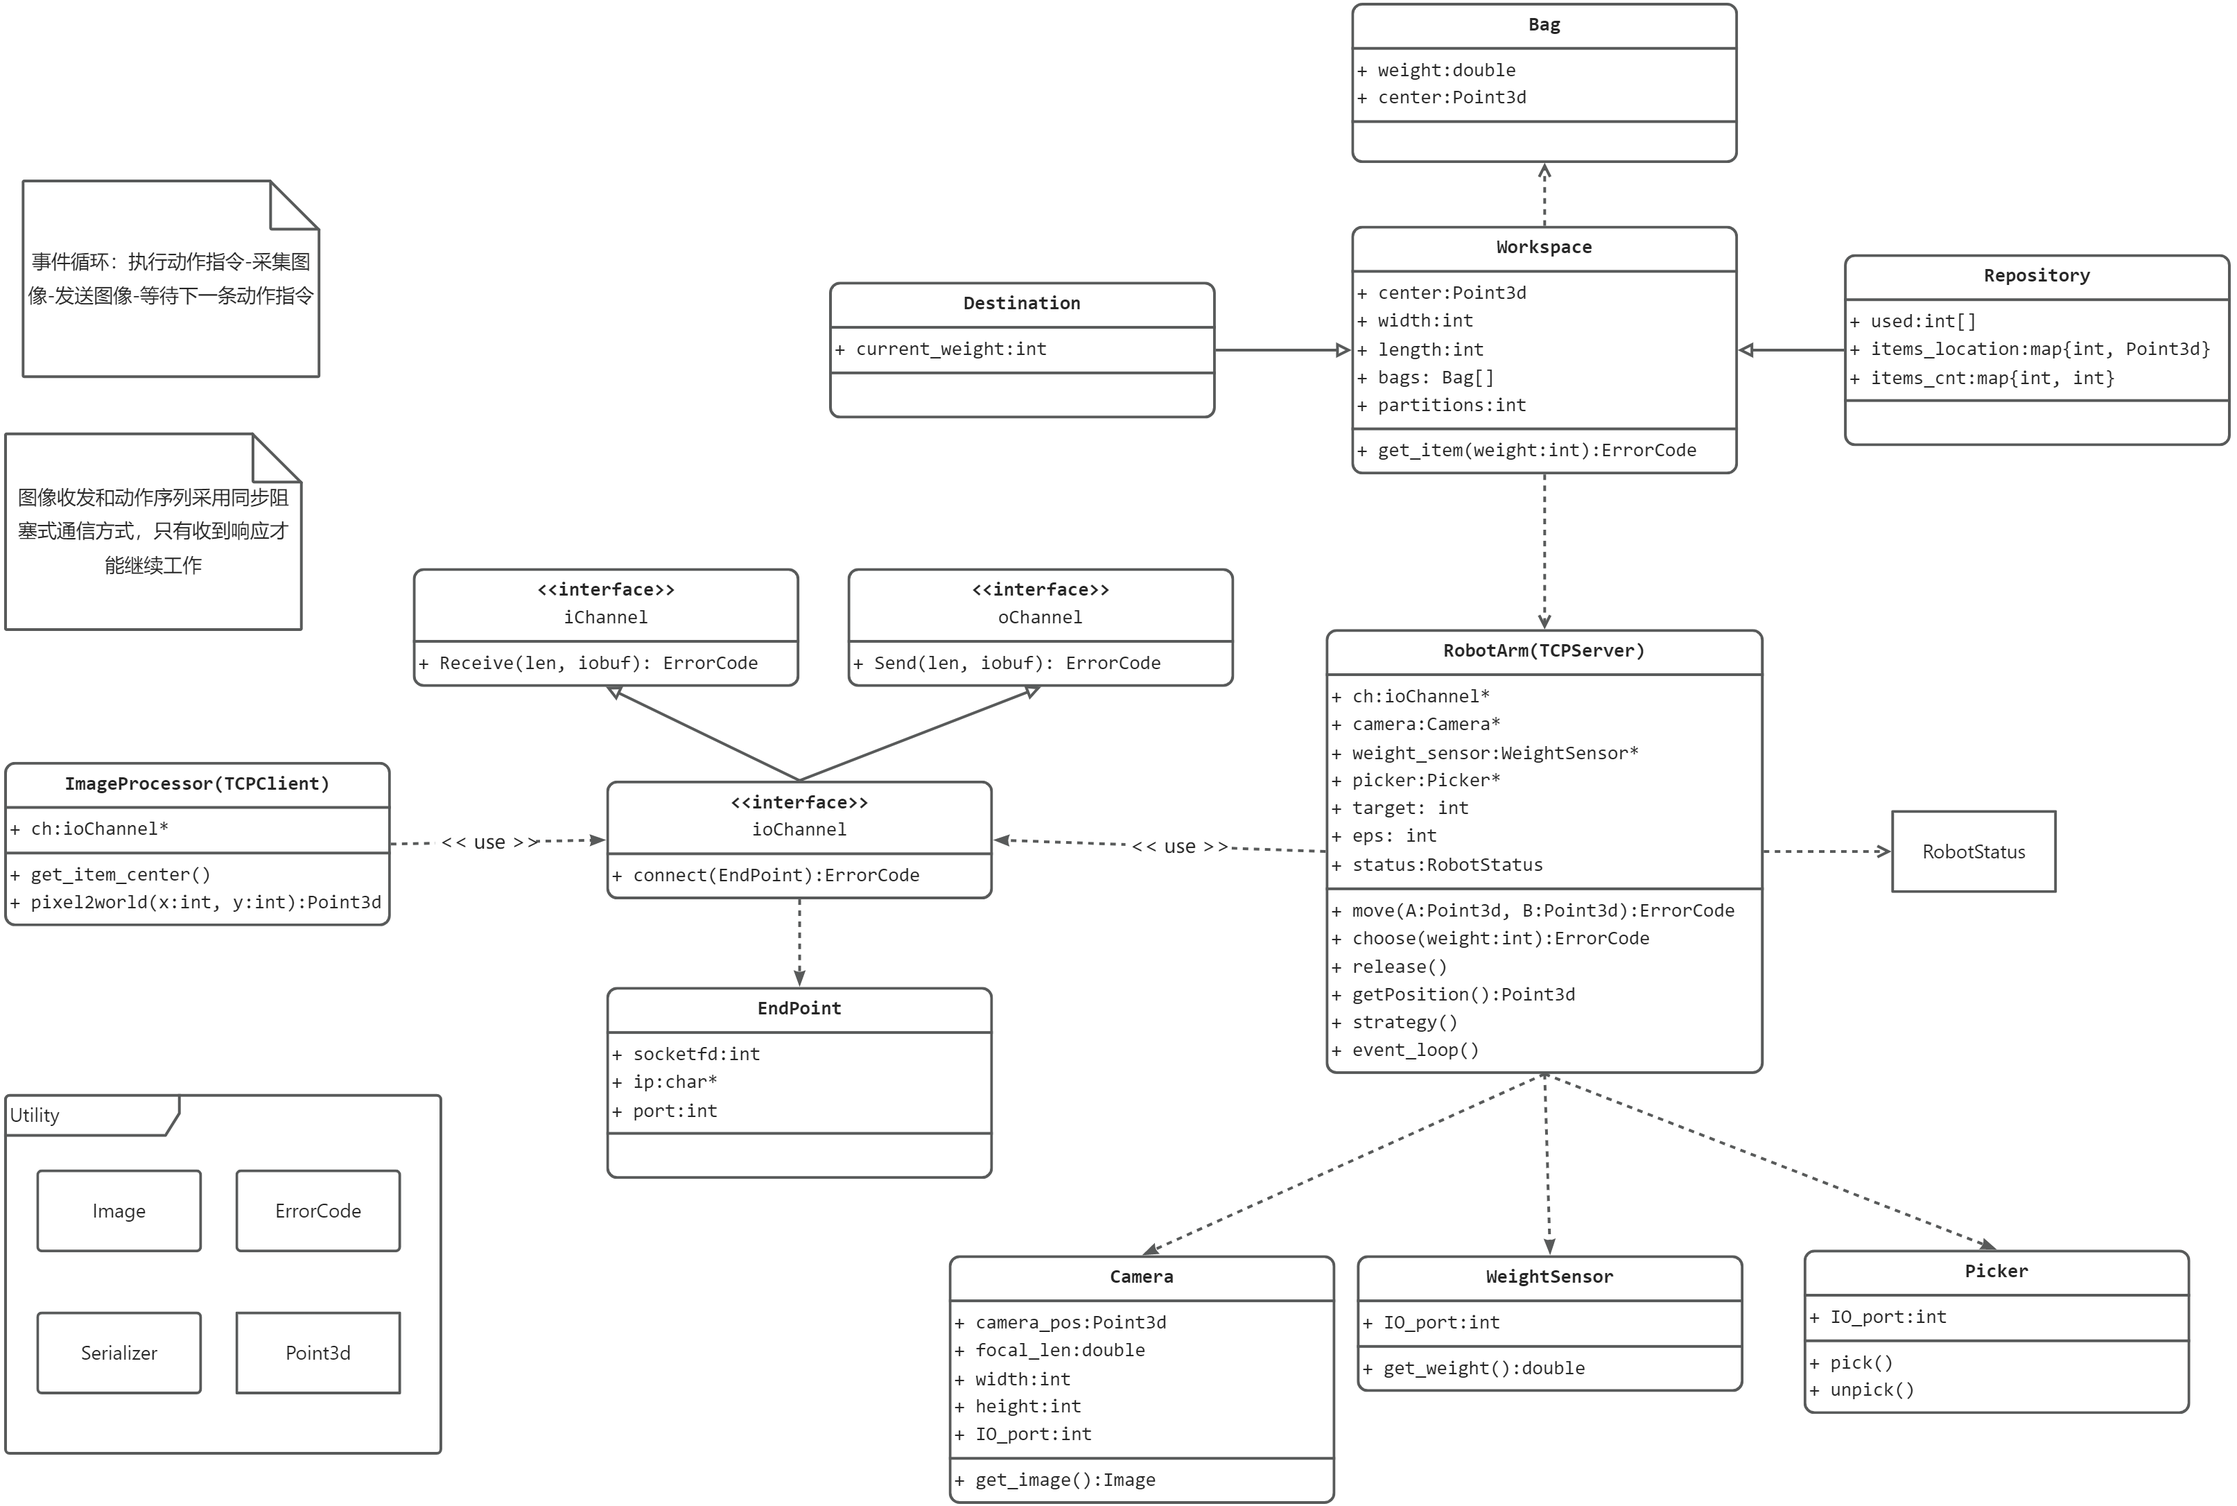
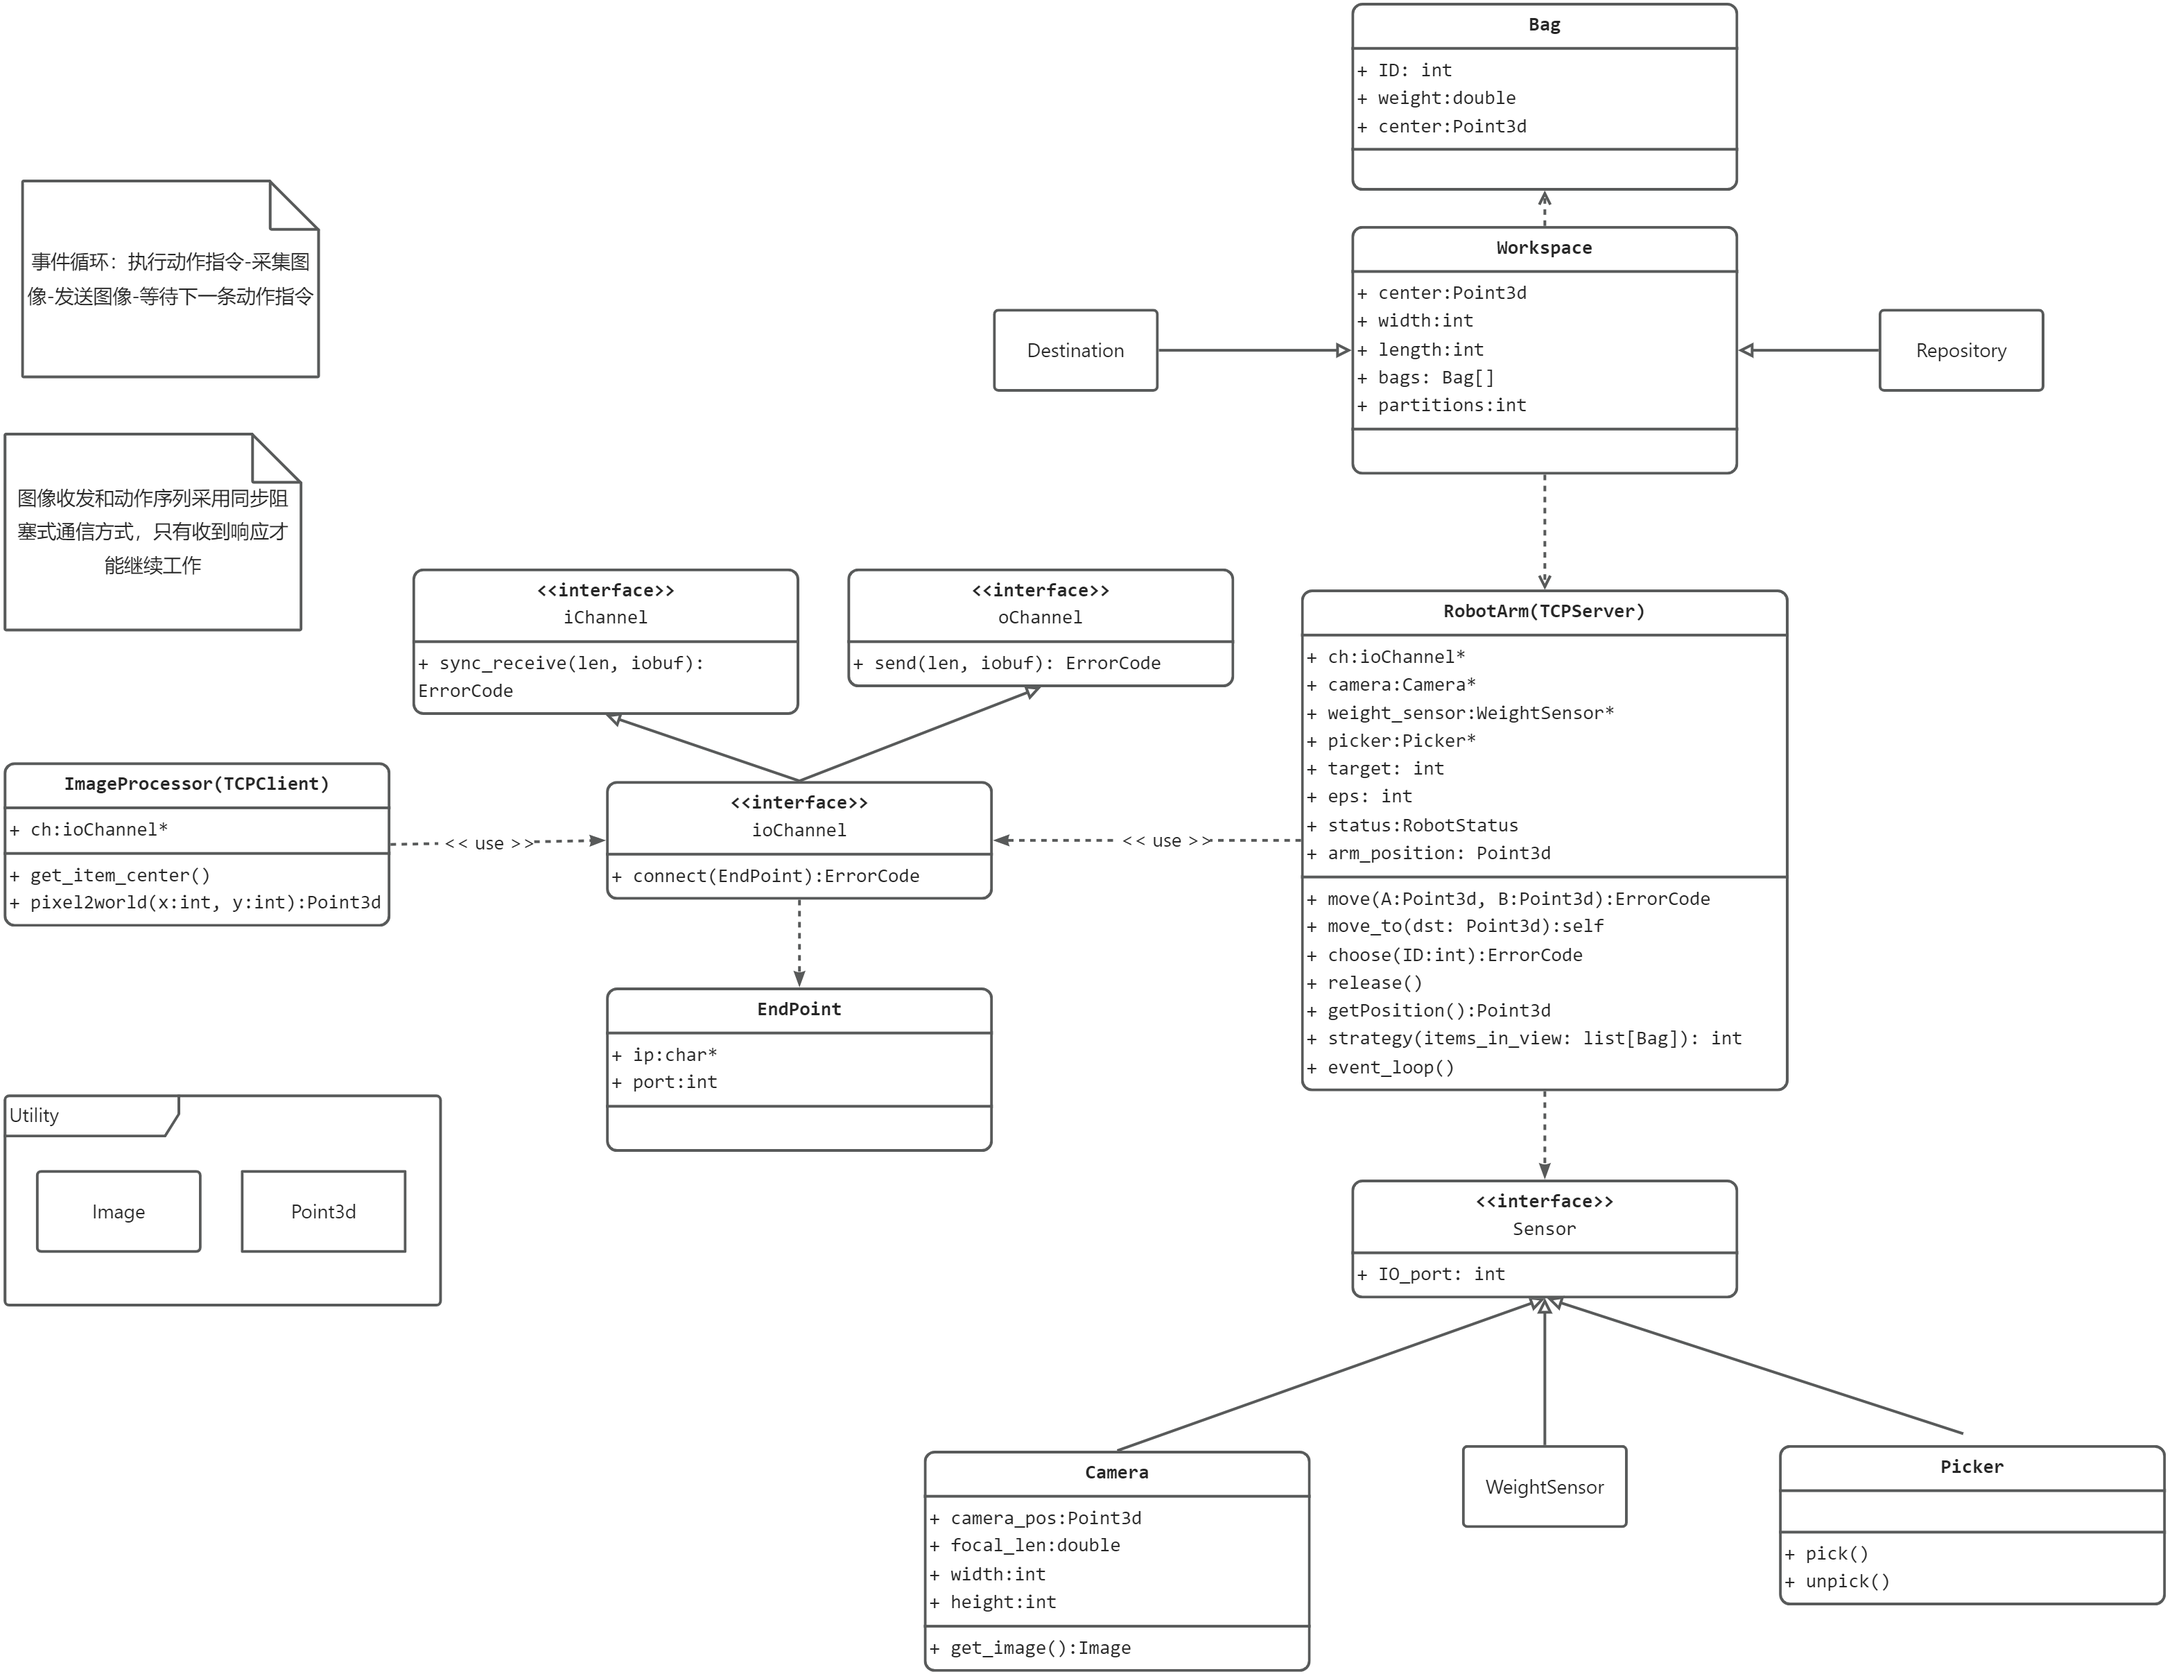
更新策略

diff --git a/src/workspace.py b/src/workspace.py
@@ -1,22 +1,102 @@
 from utility.point3d import Point3d
+import random
+
+
+def offset2id(x: int, y: int, z: int) -> int:
+    group_id = z << 2
+    item_id = group_id + x << 1 + y
+    return item_id
+
+
+# 按照 X, Y, Z 的顺序进行位置编码
+def id2coord(id, partition, units) -> Point3d:
+    warp_size = partition[0] * partition[1]
+    group_id = int(id / warp_size)
+    offset_x = (id - group_id * warp_size) % partition[0]
+    offset_y = (id - group_id * warp_size) / partition[0]
+    offset_z = group_id
+    return Point3d(nx=units.x * offset_x + units.x,
+                   ny=units.y * offset_y + units.y,
+                   nz=units.z * offset_z + units.z)
 
 
 class Bag():
-    ID = -1
-    weight = 0.0
-    center = Point3d(0.0, 0.0, 0.0)
+
+    def __init__(self, id, weight=0.0, center=Point3d(0.0, 0.0, 0.0)) -> None:
+        self.ID = id
+        self.weight = weight
+        self.center = center
 
 
 class Workspace():
     center = Point3d(0.0, 0.0, 0.0)
-    width = 0
-    length = 0
+    x_range = 0
+    y_range = 0
+    z_range = 0
     bags: list[Bag] = []
-    partitions = 1
+    partition = (2, 2, 1)
+    weight_array = [i for i in range(80, 160, 10)]
+    used = list[bool]
+
+    def __init__(self, position: Point3d, x_range: int, y_range: int,
+                 z_range: int, partition: tuple[int, int, int]) -> None:
+        self.center = position
+        self.x_range = x_range
+        self.y_range = y_range
+        self.z_range = z_range
+        self.partition = partition
+
+    def generate_bags(self, num, bags_weight=[]):
+
+        if num < 0:
+            raise Exception('Invalid number of bags: should be positive.')
+
+        capacity = self.partition[0] * self.partition[1] * self.partition[2]
+        if num > capacity:
+            raise Exception(
+                'Invalid number of bags: capacity: {} input: {}'.format(
+                    capacity, num))
+
+        if len(bags_weight) == 0:
+            for bag_id in range(num):
+                idx = random.randint(0, len(self.weight_array) - 1)
+                self.bags.append(Bag(bag_id, self.weight_array[idx]))
+        elif len(bags_weight) == num:
+            for bag_id in range(num):
+                self.bags.append(Bag(bag_id, bags_weight[bag_id]))
+                self.used[bag_id] = False
+        else:
+            raise Exception(
+                'Inconpatible length: num: {} bags_weight: {}'.format(
+                    num, len(bags_weight)))
+
+        # 确定单位长度
+        x_unit = self.x_range / (self.partition[0] * 2)
+        y_unit = self.y_range / (self.partition[1] * 2)
+        z_unit = self.z_range / (self.partition[2] * 2)
+        self.units = Point3d(x_unit, y_unit, z_unit)
+        print("axis unit: {}".format(self.units))
+
+        for bag in self.bags:
+            bag.center = id2coord(bag.ID, self.partition, self.units)
+            bag.center = bag.center + self.center
+
+    def get_entry(self, x_offset, y_offset, z_offset) -> Point3d:
+        return Point3d(
+            nx=x_offset * self.units.x + self.units.x,
+            ny=y_offset * self.units.y + self.units.y,
+            nz=z_offset * self.units.z + self.units.z,
+        )
+
+    def top(self, row, col) -> Bag or None:
+        raise Exception("implement top() at workspace.py")
+
+    def use(self, Bag: Bag):
+        raise Exception("implement use() at workspace.py")
 
 
 class Repository(Workspace):
-    used = []
+    pass
 
 
 class Destination(Workspace):

diff --git a/test/testStrategy02.py b/test/testStrategy02.py
@@ -1,0 +1,67 @@
+import sys, os
+
+sys.path.extend([
+    os.path.join(root, name) for root, dirs, _ in os.walk("../")
+    for name in dirs
+])
+
+from utility.point3d import Point3d
+import workspace as ws
+
+target = 300
+eps = 10
+cur_weight = 0
+res = list[ws.Bag]
+finished = False
+test_workspace = ws.Workspace(position=Point3d(0.0, 0.0, 0.0),
+                              x_range=100,
+                              y_range=100,
+                              z_range=100,
+                              partition=(2, 2, 3))
+
+try:
+    test_workspace.generate_bags(12)
+
+    for bag in test_workspace.bags:
+        idx = bag.ID
+        print("ID: {} Position: {}".format(idx, bag.center))
+
+    # 采用深度优先方式对物品进行试探性抓取
+    # 到达目的地上方的偏移量
+    z_offset_critic = 4
+    """
+    工作区俯视图示例
+    --------------- 
+    | 0, 0 | 1, 0 |
+    ---------------
+    | 0, 1 | 1, 1 |
+    ---------------
+    """
+
+    for row in range(test_workspace.partition[1]):
+        for col in range(test_workspace.partition[0]):
+            if finished:
+                print("Success!")
+                for item in res:
+                    print(item.weight)
+                exit()
+
+            entry = test_workspace.get_entry(row, col, z_offset_critic)
+            print("pos: {}".format(entry))
+
+            while test_workspace.top(row, col) != None:
+                obj_info = test_workspace.top(row, col)
+                lookahead = cur_weight + obj_info.weight
+                if lookahead < target + eps:
+                    res.append(obj_info)
+                    test_workspace.use(obj_info)
+                    if lookahead > target - eps:
+                        finished = True
+                        break
+
+    if cur_weight < target - eps or cur_weight > target + eps:
+        print("Failed: cur: {} target: {} eps: {}".format(
+            cur_weight, target, eps))
+
+except Exception as err:
+    print(err)

diff --git a/test/mockServer.py b/test/mockServer.py
@@ -5,6 +5,7 @@ sys.path.extend([
     for name in dirs
 ])
 
+import workspace as ws
 from channel.iochannel import ioChannel
 from channel.endpoint import Endpoint
 from utility.point3d import Point3d
@@ -42,15 +43,20 @@ class MockServer():
     def get_position(self):
         pass
 
-    def strategy(self):
-        pass
+    def strategy(self, items_in_view: list[ws.Bag]) -> int:
+        for id, bag in enumerate(items_in_view):
+            lookahead_weight = self.total_weight + bag.weight
+
+            if lookahead_weight < self.target:
+                return id
+        return -1
 
     def reset_position(self):
         self.arm_position = Point3d(400, 0, 230)
         print("reset position to: {}".format(self.arm_position))
 
     def action(self):
-        for _ in range(5):
+        for _ in range(2):
             A = Point3d(81, 391, 80)
             B = Point3d(76, -391, 230)
             C = Point3d(76, -391, 80)

diff --git a/src/workspace_test.py b/src/workspace_test.py
@@ -1,0 +1,19 @@
+import unittest
+from utility.point3d import Point3d
+from workspace import Workspace
+
+
+class TestWorkspaceMethods(unittest.TestCase):
+
+    def test_generate_bags(self):
+        testWorkspace = Workspace(position=Point3d(0.0, 0.0, 0.0),
+                                  x_range=100,
+                                  y_range=100,
+                                  z_range=100,
+                                  partition=(2, 2, 3))
+
+        testWorkspace.generate_bags(10, [1, 2, 3, 4, 5, 6, 7, 8, 9, 10])
+        
+
+if __name__ == '__main__':
+    unittest.main()

diff --git a/src/TCPServer.py b/src/TCPServer.py
@@ -31,6 +31,8 @@ class TCPServer():
             self.options.io_ports['weight_sensor'])
 
         self.arm_position = self.get_position()
+        dType.SetArmOrientation(api, 0, 1)
+        dType.SetPTPCommonParamsSync(api, 30, 30)
 
     def move(self, A: Point3d, B: Point3d):
         dType.SetPTPCmdSync(api, 1, A.x, A.y, A.z, 0, 1)

diff --git a/src/utility/point3d.py b/src/utility/point3d.py
@@ -7,3 +7,6 @@ class Point3d():
 
     def __format__(self, __format_spec: str) -> str:
         return "(%f, %f, %f)" % (self.x, self.y, self.z)
+
+    def __add__(self, rhs):
+        return Point3d(self.x + rhs.x, self.y + rhs.y, self.z + rhs.z)

diff --git a/src/utility/image.py b/src/utility/image.py
@@ -1,0 +1,3 @@
+import cv2
+
+# 基于模板匹配的目标检测算法

diff --git a/test/README.md b/test/README.md
@@ -1,0 +1,1 @@
+这里是集成测试的目录
